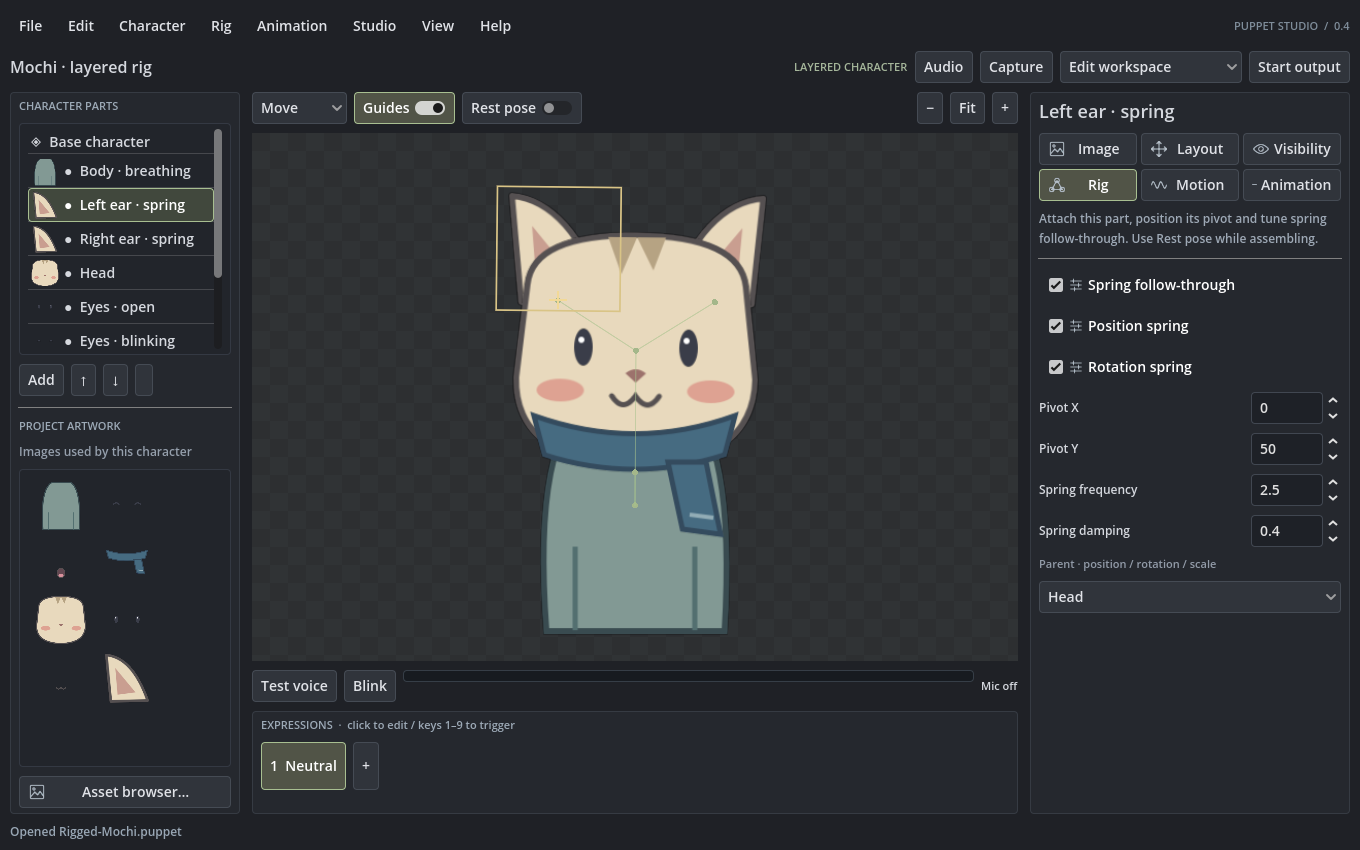
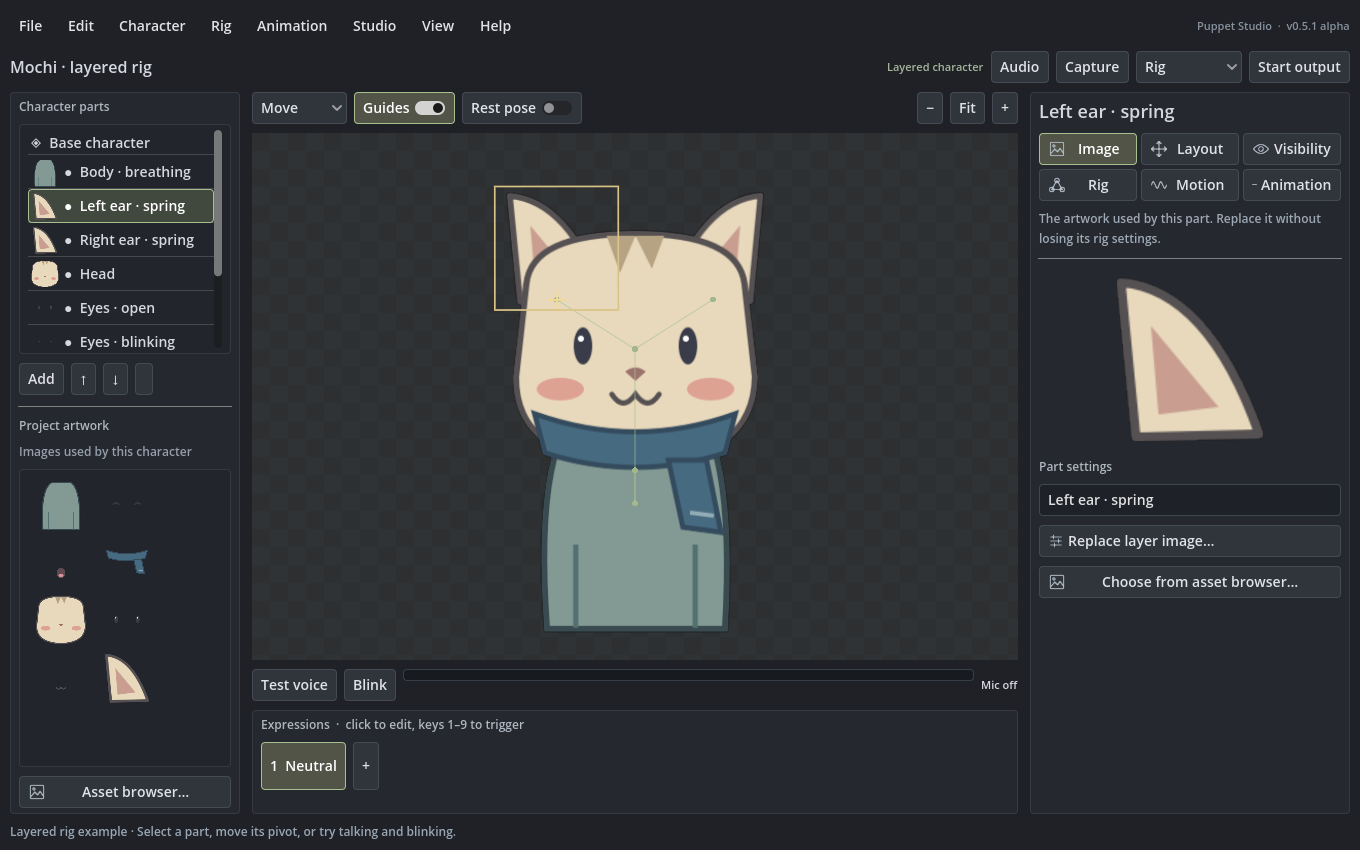
Polish editor language and project page

diff --git a/README.md b/README.md
@@ -1,76 +1,62 @@
-# Puppet Studio 0.5.0-alpha
+# Puppet Studio
 
-A standalone Windows avatar editor and performer built with Godot. Extract the ZIP and run `PuppetStudio.exe`. No Godot installation is required. Keep both helper EXEs beside it.
+Puppet Studio is a desktop editor and performer for image-based avatars. Build a character, connect it to your microphone, and capture the output in streaming software.
 
-![Puppet Studio layered character editor](docs/images/editor.png)
+![The Puppet Studio rig editor](docs/images/editor.png)
 
-## New editor layout
+The current release is a Windows alpha. It runs as a normal portable application; Godot is already included in the executable.
 
-The menu bar organizes File, Edit, Character, Rig, Animation, Studio, View and Help. The canvas stays central; parts and project artwork sit on the left, and the selected item has focused categories on the right. Simple characters hide the empty parts list. Settings include context descriptions and tooltips.
+## Download
 
-**File → New character** opens a dedicated setup window with three starting workflows. They share the same portable format and underlying rig capabilities; Advanced is not a separate mesh-deformation engine. **Edit → Preferences** changes the editor scheme, text size and accent.
+Download the latest Windows ZIP from [Releases](https://github.com/Wabsa-kh/PuppetStudio/releases). Extract it, keep the three executable files together, and open `PuppetStudio.exe`.
 
-**File → Asset browser** searches embedded artwork or browses a chosen local folder, with thumbnails, a larger preview and an explicit assignment target. Click any expression image tile to use the operating system's picker. Native Open/Save/Import/Export dialogs are retained. Local folder results are limited to 250 files; GIF/APNG folder tiles use an animation icon until imported.
+## What works
 
-## Try the layered character
+- Quick four-image characters and separate-part layered characters
+- Microphone-driven talking, automatic blinking, expressions, and costumes
+- Parent attachments, editable pivots, springs, idle motion, speech bounce, and pointer follow
+- Canvas tools for moving, rotating, scaling, and rigging parts
+- Motion clips with a playhead, key poses, easing, looping, and final-frame hold
+- PNG, JPEG, WebP, GIF, APNG, and sprite-sheet artwork
+- Per-part tint, opacity, mirroring, masks, and blend modes
+- Visual artwork browser with thumbnails and native Windows file pickers
+- Transparent, green-screen, magenta-screen, or custom-color output
+- 20, 30, 60, and 120 fps capture modes
+- Undo and redo, backups, recovery snapshots, and portable `.puppet` files
+- Optional Windows background shortcuts and an authenticated local WebSocket API
 
-Choose **File → Open rig example**. It contains nine editable parts: body, head, two spring ears, open/closed eyes, silent/talking mouths, and scarf. Use Test voice and Blink. In Character → Costumes, choose the Without scarf costume. Open `Advanced-Mochi.puppet` for a three-key motion-clip example.
+## Make a character
 
-To build your own character, choose **File → New character**, select Simple, Layered or Advanced, then create it. Simple characters use the four visual Artwork slots. Layered characters use **File → Import parts**. The Windows file picker supports selecting multiple files. Open, Save, and Export art also use native dialogs. Artwork folders are remembered. PNG/JPEG/WebP and animated GIF/APNG/WebP import remain available.
+Choose **File → New character** and pick a setup:
 
-## Rigging and editing
+- **Quick character** uses idle, talking, blinking, and talking-while-blinking images.
+- **Layered character** assembles separate body, head, eye, mouth, and accessory images.
+- **Animated rig** starts with the layered tools and adds springs, costumes, and motion clips.
 
-- Select parts in the layer list or click them on the canvas. Move, Pivot, Rotate and Scale are canvas tools. Pivot movement keeps the picture stationary. Arrow keys nudge; Shift increases the step. Ctrl+D duplicates.
-- Enable Rest pose while assembling a character. Rig shows attachment links, selection bounds and pivots; these guides never appear in the clean output.
-- Set Parent in the Rig category to attach a part. Linking and unlinking preserve its rest placement, including non-uniform transforms. Reordering affects draw order without changing attachments.
-- Use separate speaking and blinking visibility rules for eye/mouth combinations. The older combined condition remains for existing projects; choosing either new rule clears it.
-- Independent width/height, X/Y sine speeds, positional/rotational spring switches, spring frequency/damping, rotation limits/drag, squash/stretch, speech bounce/gravity, ignore-bounce, opacity, mirroring and pointer-follow controls are available.
-- A parent can clip linked artwork to its alpha. Clipped descendants form a draw group. Nested masks are rejected; use a single mask level. Normal, additive, subtractive and multiply blending are available.
-- Background keyboard shortcuts can toggle individual sprites. These are live overrides; switching costumes resets them.
-- Visibility includes an RGBA tint for each part. Capture supports transparent, green, magenta or a custom background color and 20/30/60/120 fps modes.
+The included Mochi project is a working example. Open it from **File → Open rig example** and try **Test voice**, **Blink**, the costume editor, and the motion editor.
 
-## Expressions, costumes and motion
+## Capture
 
-Expression trigger behavior is in **Character → Expression settings**. Costumes and motion clips have dedicated windows under **Character → Costumes** and **Animation → Motion clips**.
+Click **Start output** to open the clean avatar window. Drag that window into position and capture it in OBS or similar software. Right-click it to return to the editor.
 
-Expression buttons choose the editing/base expression. Number-key triggers can select, hold, toggle back to expression 1, or play a timed reaction. The newest held expression takes priority over timed reactions; releasing it restores the underlying state. Blinking and talking remain independent. Focus loss or a stopped helper clears held states.
+Application transparency passes the automated renderer test. OBS capture still needs testing across more Windows and GPU configurations, so the color-key backgrounds remain available as a fallback.
 
-Costumes capture layer visibility independently of expressions. Create one, rename it and tick the parts that belong to it. F1–F9 selects the first nine costumes; pressing the same key returns to default visibility. Up to 32 costumes are supported.
+## Project status
 
-For a motion clip, select a part and choose **Animation → Motion clips**. The visual playhead supports click-to-seek. Set a duration, place the playhead, edit Key X/Y/rotation/scale/opacity and Record. Repeat at another time. A key's Linear, Smooth or Hold setting controls the transition to the following key. Click a key to edit it, record again to replace it, or × to delete it. Play clips runs enabled layer clips together; Pause holds the current result; Stop restores editable transforms. Loop and final-frame hold are supported, with up to 128 keys per layer. This is a compact keyframe-list editor, not a full multitrack curve editor.
+Puppet Studio is useful today, but it is still an alpha. The current release does not include deformable meshes, rope rigs, PSD import, third-party project import, mouse/gamepad/MIDI bindings, or macOS and Linux packages. Live microphone behavior, OBS capture, global shortcuts in games, long sessions, and low-end hardware need wider real-world testing before a 1.0 release.
 
-## Microphone and shortcuts
+See [the roadmap](docs/FEATURE_ROADMAP.md), [validation results](docs/VALIDATION.md), and [open issues](https://github.com/Wabsa-kh/PuppetStudio/issues) for the remaining work.
 
-Choose **Studio → Microphone and shortcuts** (or the Audio toolbar button), select your device and Enable mic. Calibration measures quiet then speech; Restart reconnects capture after a device or operating-system change. Avatar mute only affects this app's mouth state, not your microphone in OBS. PTT gates detected speech.
+## Build from source
 
-Focused defaults: 1–9 expression triggers, F1–F9 costumes, B blink, Space PTT, Ctrl+S save, Ctrl+Z undo, Ctrl+Shift+Z redo, Ctrl+D duplicate.
+Open `project.godot` in Godot 4.7.2. The project uses the Compatibility renderer. The Windows package also includes two small helper programs for animated image decoding and background shortcuts.
 
-Optional Windows background defaults: Ctrl+Alt+1–9 expressions, Ctrl+Alt+F1–F9 costumes, Ctrl+Alt+M mute, Ctrl+Alt+B blink, Ctrl+Alt+Space PTT. Costume and sprite bindings support letters, digits, F1–F12, Space, modifier combinations and Disabled. Duplicate bindings within this app are detected. Expression/mute/blink/PTT background keys remain fixed. Detection of keys reserved by other programs, mouse/gamepad/MIDI binding and macOS/Linux global input remain unfinished.
+Run the complete Windows build and test pass with:
 
-## Capture and integrations
+```powershell
+.\build.ps1 -Godot C:\path\to\Godot_console.exe -WindowsTemplate C:\path\to\windows_release_x86_64.exe -FullChecks
+```
 
-Start output opens a clean borderless avatar window. Drag it to move; right-click to reopen the editor. Output supports transparent/green/magenta/custom backgrounds, topmost, 20/30/60/120 fps, pixel-art filtering, and 256/512/1024/2048-square render targets. Higher resolution and frame rates use more memory/GPU time.
+## License
 
-OBS capture is still unverified on this machine. Application alpha pixels were tested; that does not certify OBS compatibility. Try Game Capture with Allow Transparency, or a solid background with Color Key.
-
-**Studio → Local control API** contains an optional local WebSocket control server, disabled by default. Start it and copy connection details. It only listens on 127.0.0.1 and uses a fresh token each start. See `CONTROL_API.md` for the authentication and commands. This is an original API; existing veadotube/Stream Deck plugins are not automatically compatible.
-
-## Troubleshooting and launch status
-
-Open **Help → System status** to inspect microphone, shortcut and capture status. Copy report copies only the displayed diagnostic summary; nothing is sent automatically. Background shortcuts may take up to 30 seconds to connect on a slow first start.
-
-See `LAUNCH_READINESS.md` in the Windows package (or `docs/LAUNCH_READINESS.md` in the source) for the remaining release gates. This is a testing alpha, not a final cross-platform launch.
-
-## Files and safety of edits
-
-`.puppet` projects embed artwork. Save retains a `.bak`, and local recovery snapshots are made while editing. Closing unsaved work offers Save and quit, Discard changes, or Keep editing. Failed saves keep the editor open. Successful saves clear stale recovery snapshots; restored sessions remain marked unsaved until explicitly saved. Writes are checked before the previous project is replaced. Export art writes embedded PNG files plus an animation/layer map into a new subfolder. The source PNG files are not modified. Plus `.save`, `.veado`, PSD and Remix import are not implemented.
-
-Limits: 32 expressions, 32 costumes, 64 layers, 4096-pixel static image dimension, 16 MB per import, 48 MB project, 256 animated frames and 48 million decoded animated pixels. Complex decoder cases, extreme projects and crash/disk-full recovery need broader testing.
-
-## Verification and remaining work
-
-The release evidence includes core tests, real-window tests, rig/clipping/blend pixel tests, a real native-file-dialog import with a Unicode path, local WebSocket authentication/commands, and tests inside the exported executable. See the source's `docs/IMPLEMENTATION_STATUS.md` and `docs/PNGTUBER_PLUS_AUDIT.md` for exact coverage.
-
-This remains an alpha. Live microphone/calibration, real foreground-game shortcuts, OBS, long-session stability and macOS/Linux packages are not verified. Deformable mesh/rope rigs, multiselect, advanced timeline curves, broad importer compatibility and every feature from every reference app are not complete. No claim of complete replacement parity or final low-resource performance is made.
-
-Source: `source/project.godot`, Godot 4.7.2. Product/runtime code and sample artwork are original. Competitor source was inspected to understand requirements; it is not bundled.
+Puppet Studio is available under the [MIT License](LICENSE). The included Mochi artwork is original to this project. No AI-generated artwork is included.

diff --git a/docs/LAUNCH_READINESS.md b/docs/LAUNCH_READINESS.md
@@ -1,4 +1,4 @@
-# Launch readiness — 0.5.0 alpha
+# Launch readiness — 0.5.1 alpha
 
 This is a Windows testing build, not a production-ready cross-platform replacement. The redesigned editor and existing avatar features work in automated tests. The following gates define what remains before broader release.
 
@@ -45,7 +45,7 @@ Do not describe a short automated lifecycle run as a multi-hour stability test. 
 
 See PNGTUBER_PLUS_AUDIT.md and FEATURE_PARITY.md for the earlier comparison. Launch a clearly scoped, useful product before claiming every competitor feature is supported.
 
-The implementation milestones are tracked in [FEATURE_ROADMAP.md](FEATURE_ROADMAP.md). The advanced roadmap includes appendage/rope physics, deformable meshes, normal-map lighting, throwables, PSD import, expanded input support and richer protocol compatibility. These are not present in 0.5.0.
+The implementation milestones are tracked in [FEATURE_ROADMAP.md](FEATURE_ROADMAP.md). The roadmap includes appendage and rope physics, deformable meshes, normal-map lighting, throwables, PSD import, expanded input support and richer protocol compatibility. These are not present in 0.5.1.
 
 ## Suggested next release sequence
 

diff --git a/CHANGELOG.md b/CHANGELOG.md
@@ -1,0 +1,21 @@
+# Changelog
+
+## 0.5.1 alpha
+
+- Shortened the editor language and renamed the three setup paths to Quick character, Layered character, and Animated rig.
+- Simplified workspace, section, frame-rate, and help labels.
+- Rewrote the project page around downloading, making a character, and capturing it.
+- Added a clear public roadmap and release limitations.
+
+## 0.5.0 alpha
+
+- Added per-part color tinting and custom capture backgrounds.
+- Added 20, 30, 60, and 120 fps capture choices.
+- Added a microphone restart control for device changes.
+- Added release documentation, validation records, and the first public Windows package.
+
+## 0.4.1 alpha
+
+- Reworked the editor into separate rig, artwork, and performance workflows.
+- Added visual artwork slots, an asset browser, creation wizard, contextual inspectors, menus, preferences, and tooltips.
+- Improved save validation, backups, recovery, and build checks.

diff --git a/docs/FEATURE_ROADMAP.md b/docs/FEATURE_ROADMAP.md
@@ -1,6 +1,6 @@
-# Feature roadmap after 0.5.0 alpha
+# Feature roadmap after 0.5.1 alpha
 
-Puppet Studio 0.5.0 is a useful simple/layered PNGTuber application. It does not yet contain every experimental feature from PNGTuber Remix or every input/backend supported by veadotube. The remaining work is grouped so each milestone can ship with usable UI and validation.
+Puppet Studio 0.5.1 supports quick and layered PNGTuber characters. The remaining work is grouped into releases that can each ship with a complete workflow and useful test coverage.
 
 ## 0.6 — authoring productivity
 

diff --git a/docs/FEATURE_PARITY.md b/docs/FEATURE_PARITY.md
@@ -1,4 +1,4 @@
-# Feature parity — 0.5.0 alpha
+# Feature parity — 0.5.1 alpha
 
 The editor now uses conventional menus, contextual pages, visual artwork slots and dedicated windows. See [UI_REDESIGN.md](UI_REDESIGN.md) for the current feature map. The following earlier implementation inventory remains applicable to the underlying features.
 

diff --git a/docs/IMPLEMENTATION_STATUS.md b/docs/IMPLEMENTATION_STATUS.md
@@ -1,4 +1,4 @@
-# Current status — 0.5.0 alpha
+# Current status — 0.5.1 alpha
 
 The redesigned Windows editor has save/quit/recovery hardening, a diagnostic window, checked staged builds and a repeated-use test. See [VALIDATION.md](VALIDATION.md) for test evidence and [LAUNCH_READINESS.md](LAUNCH_READINESS.md) for release blockers.
 

diff --git a/docs/VALIDATION.md b/docs/VALIDATION.md
@@ -1,4 +1,4 @@
-# Validation — 0.5.0 alpha
+# Validation — 0.5.1 alpha
 
 | Suite | Passing checks | Evidence |
 |---|---:|---|
